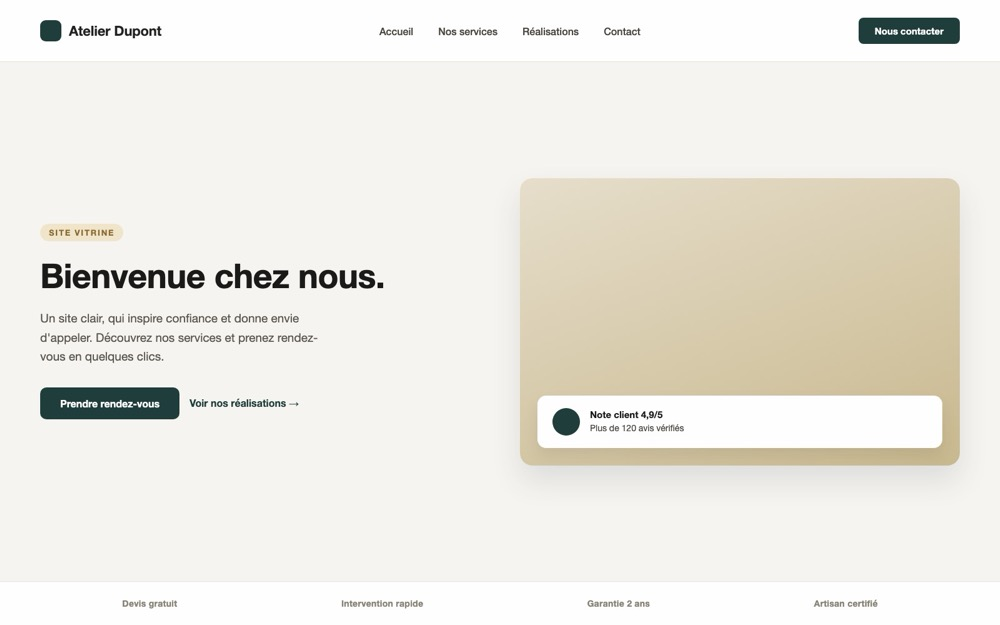
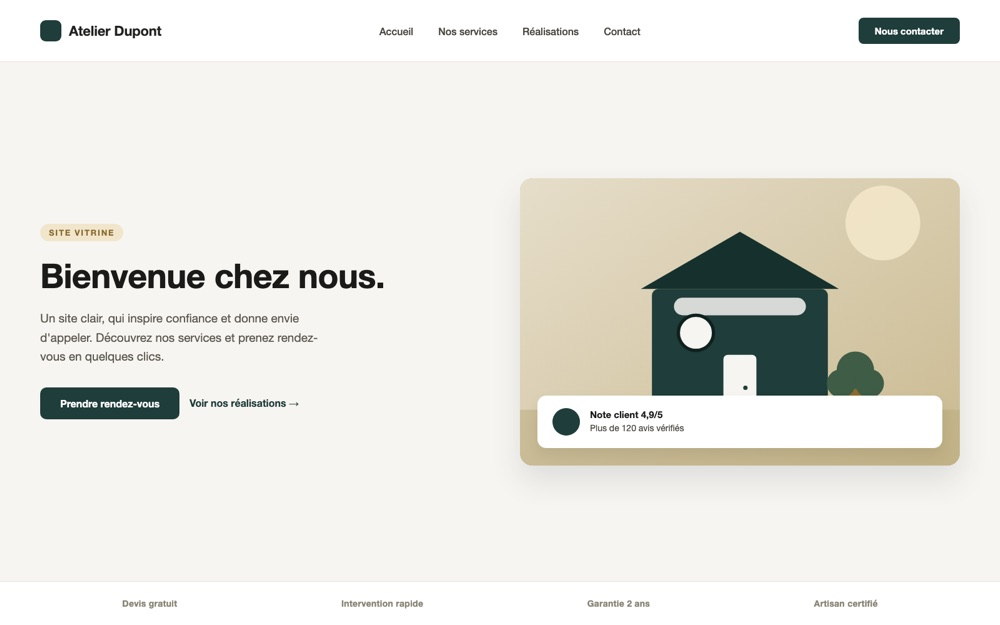
Animer le curseur du comparateur et illustrer le panneau « après »
Le curseur balaie une fois automatiquement de gauche à droite dès que
la section entre dans l'écran (IntersectionObserver), puis se pose au
centre et rend la main au visiteur. L'animation est coupée dès que
celui-ci touche le curseur (souris, tactile, clavier) et n'a jamais
lieu si prefers-reduced-motion est actif.

Le panneau « après » a maintenant une illustration (petite façade
d'atelier en flat design, générée en SVG) derrière la carte
« Note client », au lieu du dégradé uni.

Changed region(s): [[0.651, 0.3648, 0.899, 0.6384]]

diff --git a/js/script.js b/js/script.js
@@ -488,7 +488,8 @@
   var curseur = document.getElementById("aa-curseur");
   var avant = document.getElementById("aa-avant");
   var diviseur = document.getElementById("aa-diviseur");
-  if (!curseur || !avant || !diviseur) return;
+  var cadre = document.querySelector(".aa-cadre");
+  if (!curseur || !avant || !diviseur || !cadre) return;
 
   function maj() {
     var v = curseur.value;
@@ -498,6 +499,77 @@
 
   curseur.addEventListener("input", maj);
   maj();
+
+  /* Petite démo automatique : la première fois que le comparateur entre
+     dans l'écran, le curseur balaie une fois de gauche à droite pour
+     montrer qu'il est manipulable, puis se pose au centre et rend
+     entièrement la main au visiteur. Coupée si l'utilisateur touche déjà
+     le curseur (souris, tactile ou clavier) ou préfère moins de mouvement. */
+  if (window.matchMedia("(prefers-reduced-motion: reduce)").matches) return;
+  if (!("IntersectionObserver" in window)) return;
+
+  var idAnimation = null;
+
+  function definirValeur(v) {
+    curseur.value = v;
+    maj();
+  }
+
+  function assouplir(t) {
+    return t < 0.5 ? 2 * t * t : 1 - Math.pow(-2 * t + 2, 2) / 2;
+  }
+
+  function arreterDemo() {
+    if (idAnimation !== null) {
+      cancelAnimationFrame(idAnimation);
+      idAnimation = null;
+    }
+  }
+
+  function jouerDemo() {
+    if (document.activeElement === curseur) return;
+
+    var depart = null;
+    var duree = 2200;
+    definirValeur(0);
+
+    function etape(horodatage) {
+      if (depart === null) depart = horodatage;
+      var t = Math.min((horodatage - depart) / duree, 1);
+      var valeur;
+      if (t < 0.75) {
+        valeur = assouplir(t / 0.75) * 100;
+      } else {
+        valeur = 100 - assouplir((t - 0.75) / 0.25) * 50;
+      }
+      definirValeur(valeur);
+      if (t < 1) {
+        idAnimation = requestAnimationFrame(etape);
+      } else {
+        definirValeur(50);
+        idAnimation = null;
+      }
+    }
+
+    idAnimation = requestAnimationFrame(etape);
+  }
+
+  ["pointerdown", "touchstart", "keydown", "focus"].forEach(function (evenement) {
+    curseur.addEventListener(evenement, arreterDemo, { passive: true });
+  });
+
+  var observateur = new IntersectionObserver(
+    function (entrees, obs) {
+      entrees.forEach(function (entree) {
+        if (entree.isIntersecting) {
+          jouerDemo();
+          obs.disconnect();
+        }
+      });
+    },
+    { threshold: 0.4 }
+  );
+  observateur.observe(cadre);
 })();
 
 /* ===== Formulaire : petites coches de validation en temps réel =====

diff --git a/js/script.min.js b/js/script.min.js
@@ -176,7 +176,8 @@
   var curseur = document.getElementById("aa-curseur");
   var avant = document.getElementById("aa-avant");
   var diviseur = document.getElementById("aa-diviseur");
-  if (!curseur || !avant || !diviseur) return;
+  var cadre = document.querySelector(".aa-cadre");
+  if (!curseur || !avant || !diviseur || !cadre) return;
 
   function maj() {
     var v = curseur.value;
@@ -186,6 +187,77 @@
 
   curseur.addEventListener("input", maj);
   maj();
+
+  /* Petite démo automatique : la première fois que le comparateur entre
+     dans l'écran, le curseur balaie une fois de gauche à droite pour
+     montrer qu'il est manipulable, puis se pose au centre et rend
+     entièrement la main au visiteur. Coupée si l'utilisateur touche déjà
+     le curseur (souris, tactile ou clavier) ou préfère moins de mouvement. */
+  if (window.matchMedia("(prefers-reduced-motion: reduce)").matches) return;
+  if (!("IntersectionObserver" in window)) return;
+
+  var idAnimation = null;
+
+  function definirValeur(v) {
+    curseur.value = v;
+    maj();
+  }
+
+  function assouplir(t) {
+    return t < 0.5 ? 2 * t * t : 1 - Math.pow(-2 * t + 2, 2) / 2;
+  }
+
+  function arreterDemo() {
+    if (idAnimation !== null) {
+      cancelAnimationFrame(idAnimation);
+      idAnimation = null;
+    }
+  }
+
+  function jouerDemo() {
+    if (document.activeElement === curseur) return;
+
+    var depart = null;
+    var duree = 2200;
+    definirValeur(0);
+
+    function etape(horodatage) {
+      if (depart === null) depart = horodatage;
+      var t = Math.min((horodatage - depart) / duree, 1);
+      var valeur;
+      if (t < 0.75) {
+        valeur = assouplir(t / 0.75) * 100;
+      } else {
+        valeur = 100 - assouplir((t - 0.75) / 0.25) * 50;
+      }
+      definirValeur(valeur);
+      if (t < 1) {
+        idAnimation = requestAnimationFrame(etape);
+      } else {
+        definirValeur(50);
+        idAnimation = null;
+      }
+    }
+
+    idAnimation = requestAnimationFrame(etape);
+  }
+
+  ["pointerdown", "touchstart", "keydown", "focus"].forEach(function (evenement) {
+    curseur.addEventListener(evenement, arreterDemo, { passive: true });
+  });
+
+  var observateur = new IntersectionObserver(
+    function (entrees, obs) {
+      entrees.forEach(function (entree) {
+        if (entree.isIntersecting) {
+          jouerDemo();
+          obs.disconnect();
+        }
+      });
+    },
+    { threshold: 0.4 }
+  );
+  observateur.observe(cadre);
 })();
 
 /* ===== Formulaire : petites coches de validation en temps réel =====
